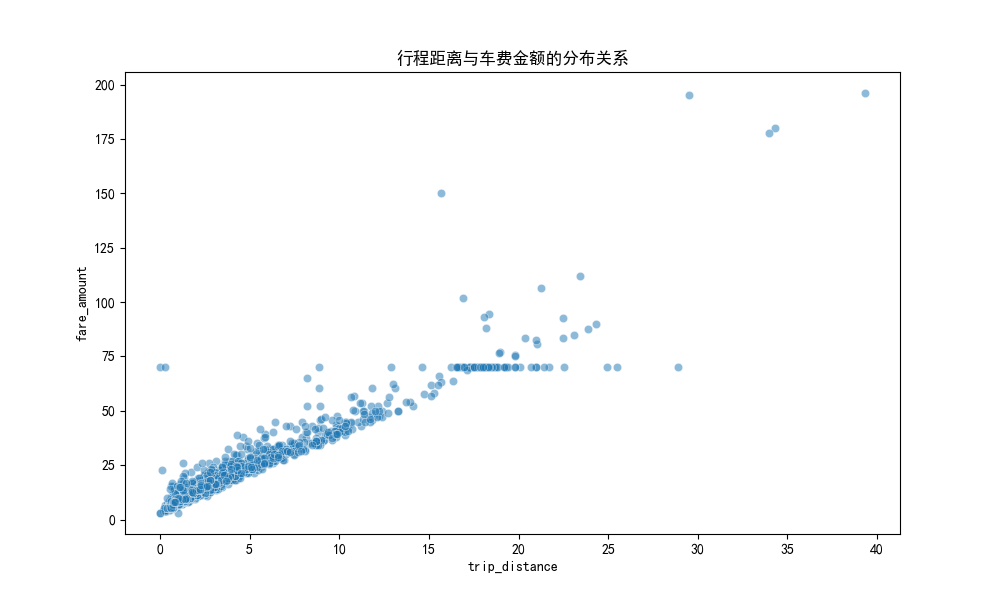
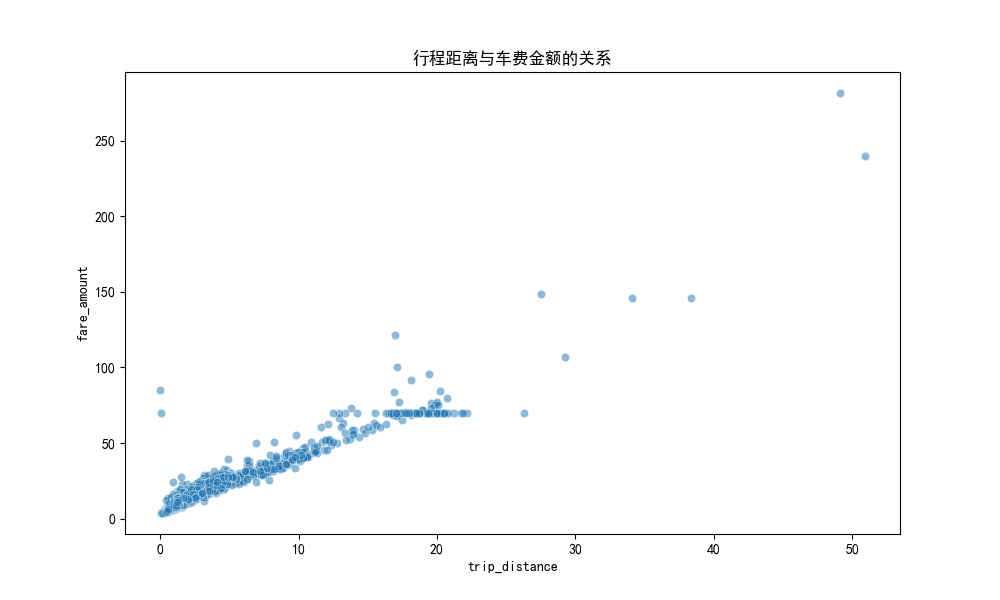
feat: 完成数据清洗、可视化分析及神经网络模型对比(M1-M3)

diff --git a/main.py b/main.py
@@ -3,24 +3,23 @@ import numpy as np
 import matplotlib.pyplot as plt
 import seaborn as sns
 import os
+from sklearn.model_selection import train_test_split
+from sklearn.preprocessing import StandardScaler
+from sklearn.ensemble import RandomForestRegressor
+from sklearn.neural_network import MLPRegressor
+from sklearn.metrics import mean_absolute_error, mean_squared_error
 
 # 配置数据集路径
 file_path = 'data/yellow_tripdata_2023-01.parquet'
 
-
 # ---------------- M1: 数据处理与特征工程 ----------------
 
 def load_and_report(path):
-    """加载数据并生成初步质量报告"""
     print("--- 1. 正在加载数据并生成报告 ---")
     df = pd.read_parquet(path)
-
-    # 缺失率统计
     missing_rate = df.isnull().mean() * 100
     print("\n各字段缺失率 (%):")
     print(missing_rate[missing_rate > 0])
-
-    # 异常值统计
     outliers = {
         "距离为负或零": (df['trip_distance'] <= 0).sum(),
         "总金额为负或零": (df['total_amount'] <= 0).sum(),
@@ -31,78 +30,50 @@ def load_and_report(path):
         print(f"{k}: {v} 条")
     return df
 
-
 def clean_data(df):
-    """数据清洗逻辑及理由说明"""
     df_cleaned = df.copy()
-
-    # 策略 1: 删除行程距离 <= 0 的记录。理由：无效行程，无法反映真实出行需求。
     df_cleaned = df_cleaned[df_cleaned['trip_distance'] > 0]
-
-    # 策略 2: 删除总费用 <= 0 的记录。理由：商业数据中费用异常通常为测试或系统错误。
     df_cleaned = df_cleaned[df_cleaned['total_amount'] > 0]
-
-    # 策略 3: 填充缺失值。理由：乘客人数缺失时设为众数1，保留其余有效字段。
     if df_cleaned['passenger_count'].isnull().any():
         df_cleaned['passenger_count'] = df_cleaned['passenger_count'].fillna(df_cleaned['passenger_count'].mode()[0])
-
-    # 策略 4: 剔除未知区域 ID (264, 265)。理由：这两个ID代表未知地点，会干扰热度分析。
     df_cleaned = df_cleaned[~df_cleaned['PULocationID'].isin([264, 265])]
-
     print(f"\n--- 2. 清洗完成。保留记录数: {len(df_cleaned)} ---")
     return df_cleaned
 
-
 def feature_engineering(df):
-    """特征提取与衍生特征设计"""
     print("--- 3. 正在提取特征 ---")
     df['tpep_pickup_datetime'] = pd.to_datetime(df['tpep_pickup_datetime'])
     df['tpep_dropoff_datetime'] = pd.to_datetime(df['tpep_dropoff_datetime'])
-
-    # 基础特征：小时、星期
     df['pickup_hour'] = df['tpep_pickup_datetime'].dt.hour
     df['day_of_week'] = df['tpep_pickup_datetime'].dt.dayofweek
-
-    # 是否高峰时段 (工作日早晚高峰)
     df['is_rush_hour'] = df.apply(lambda x: 1 if (x['day_of_week'] < 5) and
                                                  (7 <= x['pickup_hour'] <= 9 or 16 <= x['pickup_hour'] <= 19) else 0,
                                   axis=1)
-
-    # 衍生特征 1: 行程时长（分钟）。意义：衡量拥堵情况。
     df['duration_min'] = (df['tpep_dropoff_datetime'] - df['tpep_pickup_datetime']).dt.total_seconds() / 60
     df = df[(df['duration_min'] > 0) & (df['duration_min'] < 180)]
-
-    # 衍生特征 2: 平均每英里费用。意义：反映不同路段或时段的盈利效率。
     df['fare_per_mile'] = df['fare_amount'] / df['trip_distance']
-
     return df
-
 
 # ---------------- M2: 分析与可视化 ----------------
 
-# 设置绘图风格和中文显示
 plt.rcParams['font.sans-serif'] = ['SimHei']
 plt.rcParams['axes.unicode_minus'] = False
 
-
 def run_m2_visualizations(df):
-    """生成作业要求的 4 项图表"""
     if not os.path.exists('outputs'):
         os.makedirs('outputs')
-
     print("--- 4. 正在生成可视化图表并保存至 outputs/ ---")
 
-    # 1. 出行需求时间规律 (修正了之前的字段名报错)
+    # 1. 出行需求时间规律
     plt.figure(figsize=(12, 6))
     df['is_weekend_label'] = df['day_of_week'].apply(lambda x: '周末' if x >= 5 else '工作日')
-    # 使用计数统计订单量
     sns.lineplot(data=df, x='pickup_hour', y='fare_amount', hue='is_weekend_label', estimator=len)
     plt.title('工作日 vs 周末：24小时出行需求规律')
     plt.ylabel('订单数量')
     plt.savefig('outputs/m2_hourly_demand.png')
     plt.close()
 
-    # 2. 区域热度分析 (Top 10)
+    # 2. 区域热度分析
     plt.figure(figsize=(12, 6))
     top_10 = df['PULocationID'].value_counts().head(10)
     sns.barplot(x=top_10.index, y=top_10.values, palette='magma')
@@ -110,35 +81,83 @@ def run_m2_visualizations(df):
     plt.savefig('outputs/m2_top_regions.png')
     plt.close()
 
-    # 3. 车费影响因素 (距离 vs 车费)
+    # 3. 车费影响因素
     plt.figure(figsize=(10, 6))
-    sample_df = df.sample(n=min(2000, len(df)))  # 采样防止绘图卡顿
+    sample_df = df.sample(n=min(2000, len(df)))
     sns.scatterplot(data=sample_df, x='trip_distance', y='fare_amount', alpha=0.5)
-    plt.title('行程距离与车费金额的分布关系')
+    plt.title('行程距离与车费金额的关系')
     plt.savefig('outputs/m2_fare_vs_distance.png')
     plt.close()
 
-    # 4. 自选洞察：小费比例与付款方式的关系
+    # 4. 自选洞察：小费分析
     plt.figure(figsize=(10, 6))
     df['tip_percent'] = (df['tip_amount'] / df['fare_amount']) * 100
     tip_df = df[(df['tip_percent'] > 0) & (df['tip_percent'] < 50)]
     sns.boxplot(data=tip_df, x='payment_type', y='tip_percent')
-    plt.title('不同付款方式的小费比例对比 (1=信用卡, 2=现金)')
+    plt.title('不同付款方式的小费比例对比')
     plt.savefig('outputs/m2_tip_analysis.png')
     plt.close()
+    print("✅ M2 图表已成功生成！")
 
-    print("✅ 所有图表已成功生成！")
+# ---------------- M3: 预测模型模块 ----------------
 
+def run_m3_models(df):
+    print("\n--- 5. 正在启动 M3 预测模型模块 ---")
+    model_df = df.groupby(['pickup_hour', 'day_of_week', 'PULocationID']).size().reset_index(name='demand')
+    X = model_df[['pickup_hour', 'day_of_week', 'PULocationID']]
+    y = model_df['demand']
 
-# ---------------- 整个项目的执行入口 ----------------
+    X_train, X_test, y_train, y_test = train_test_split(X, y, test_size=0.2, random_state=42)
+
+    scaler = StandardScaler()
+    X_train_scaled = scaler.fit_transform(X_train)
+    X_test_scaled = scaler.transform(X_test)
+
+    print("正在训练随机森林模型...")
+    rf_model = RandomForestRegressor(n_estimators=50, random_state=42, n_jobs=-1)
+    rf_model.fit(X_train, y_train)
+    rf_preds = rf_model.predict(X_test)
+
+    print("正在训练神经网络模型 (此步骤较慢，请稍候)...")
+    nn_model = MLPRegressor(hidden_layer_sizes=(64, 32), max_iter=200, random_state=42)
+    nn_model.fit(X_train_scaled, y_train)
+    nn_preds = nn_model.predict(X_test_scaled)
+
+    def get_metrics(y_true, y_pred):
+        mae = mean_absolute_error(y_true, y_pred)
+        rmse = np.sqrt(mean_squared_error(y_true, y_pred))
+        return mae, rmse
+
+    rf_mae, rf_rmse = get_metrics(y_test, rf_preds)
+    nn_mae, nn_rmse = get_metrics(y_test, nn_preds)
+
+    print("\n" + "=" * 35)
+    print(f"随机森林报告: MAE = {rf_mae:.2f}, RMSE = {rf_rmse:.2f}")
+    print(f"神经网络报告: MAE = {nn_mae:.2f}, RMSE = {nn_rmse:.2f}")
+    print("=" * 35)
+
+    plt.figure(figsize=(8, 4))
+    plt.plot(nn_model.loss_curve_)
+    plt.title('神经网络训练 Loss 曲线')
+    plt.xlabel('迭代次数')
+    plt.ylabel('Loss')
+    plt.grid(True)
+    plt.savefig('outputs/m3_loss_curve.png')
+    plt.close()
+    print("✅ M3 模型对比完成，Loss 曲线已保存。")
+
+# ---------------- 整个项目的唯一执行入口 ----------------
 
 if __name__ == "__main__":
-    # 执行 M1
+    # 1. 运行 M1
     raw_data = load_and_report(file_path)
     cleaned_data = clean_data(raw_data)
     final_data = feature_engineering(cleaned_data)
 
-    # 执行 M2
+    # 2. 运行 M2
     run_m2_visualizations(final_data)
 
-    print("\n[项目提示]: 请在 PyCharm 左侧目录中查看 'outputs' 文件夹获取图表。")
+    # 3. 运行 M3
+    run_m3_models(final_data)
+
+    print("\n🎉 所有任务全部执行完毕！请检查 outputs 文件夹。")
